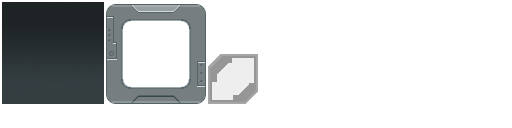
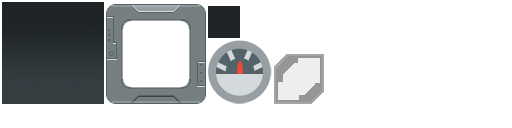
Created GameDialogs class, fixed some StageStack errors, added some UI images.

Changed region(s): [[0.4062, 0.0312, 0.6562, 0.8125]]

diff --git a/SpaceSurvival/core/src/maxfat/spacesurvival/overlap2d/GameDialogs.java b/SpaceSurvival/core/src/maxfat/spacesurvival/overlap2d/GameDialogs.java
@@ -1,0 +1,158 @@
+package maxfat.spacesurvival.overlap2d;
+
+import java.util.ArrayList;
+
+import com.badlogic.gdx.graphics.g2d.Batch;
+import com.badlogic.gdx.math.Interpolation;
+import com.badlogic.gdx.math.Vector3;
+import com.badlogic.gdx.scenes.scene2d.Action;
+import com.badlogic.gdx.scenes.scene2d.InputEvent;
+import com.badlogic.gdx.scenes.scene2d.Stage;
+import com.badlogic.gdx.scenes.scene2d.actions.Actions;
+import com.badlogic.gdx.scenes.scene2d.utils.ClickListener;
+import com.badlogic.gdx.utils.viewport.Viewport;
+import com.uwsoft.editor.renderer.SceneLoader;
+import com.uwsoft.editor.renderer.actor.CompositeItem;
+import com.uwsoft.editor.renderer.actor.IBaseItem;
+import com.uwsoft.editor.renderer.actor.LabelItem;
+
+public class GameDialogs {
+	private final StageStack stack;
+	private final Viewport viewport;
+	private final Batch batch;
+	private final SceneLoader sceneLoader;
+
+	float dialogAnimationSpeed = .5f;
+
+	public GameDialogs(StageStack stack, Viewport viewport, Batch batch) {
+		this.stack = stack;
+		this.viewport = viewport;
+		this.batch = batch;
+		this.sceneLoader = new SceneLoader();
+	}
+
+	private IBaseItem findItemByIdentifier(String id, ArrayList<IBaseItem> items) {
+		for (IBaseItem item : items) {
+			if (item.getDataVO().itemIdentifier.equals(id)) {
+				return item;
+			}
+			if (item.isComposite()) {
+				CompositeItem cmp = (CompositeItem) item;
+				IBaseItem recursedItem = findItemByIdentifier(id,
+						cmp.getItems());
+				if (recursedItem != null)
+					return recursedItem;
+			}
+		}
+		return null;
+	}
+
+	private void centerItemInStage(Stage stage, CompositeItem item) {
+		Vector3 pos = stage.getCamera().position;
+		float x = (pos.x - item.getWidth() / 2);
+		float y = (pos.y - item.getHeight() / 2);
+		item.setPosition(x, y);
+	}
+
+	public void showYesNoDialog(String message, Runnable yesRun, Runnable noRun) {
+		this.showYesNoDialog(message, "Yes", "No", yesRun, noRun);
+	}
+
+	private void addInAnimation(CompositeItem root) {
+		root.setOrigin(root.getWidth() / 2, root.getHeight() / 2);
+		root.setScale(.1f, .1f);
+		root.addAction(Actions.scaleTo(1, 1, dialogAnimationSpeed,
+				Interpolation.swingOut));
+	}
+
+	private void addOutAnimation(CompositeItem root, Action after1,
+			Action after2) {
+		root.setOrigin(root.getWidth() / 2, root.getHeight() / 2);
+		root.setScale(1, 1);
+		root.addAction(Actions.sequence(Actions.scaleTo(.1f, .1f,
+				dialogAnimationSpeed, Interpolation.swingIn), after1, after2));
+	}
+
+	public void showYesNoDialog(String message, String yes, String no,
+			final Runnable yesRun, final Runnable noRun) {
+		sceneLoader.loadScene("YesNoDialog");
+		final CompositeItem root = sceneLoader.getRoot();
+		final Stage stage = new Stage(this.viewport, this.batch);
+		SimpleButtonScript yesNoScript = new SimpleButtonScript();
+		root.addScriptTo("SimpleButton", yesNoScript);
+
+		ArrayList<IBaseItem> allItems = root.getItems();
+		CompositeItem btnYes = (CompositeItem) findItemByIdentifier("btnYes",
+				allItems);
+
+		// Must be last action executed because it removes stage from stack,
+		// Stage then can no longer be updated and can't execute further
+		// actions.
+		final Action lastAction = new Action() {
+			@Override
+			public boolean act(float delta) {
+				stack.pop();
+				stage.dispose();
+				return true;
+			}
+		};
+		btnYes.addListener(new ClickListener() {
+			public void touchUp(InputEvent event, float x, float y,
+					int pointer, int button) {
+				root.clearActions();
+				addOutAnimation(root, new RunAction(yesRun), lastAction);
+			}
+		});
+		LabelItem lblYes = btnYes.getLabelById("text");
+		lblYes.setText(yes);
+
+		CompositeItem btnNo = (CompositeItem) findItemByIdentifier("btnNo",
+				allItems);
+		btnNo.addListener(new ClickListener() {
+			public void touchUp(InputEvent event, float x, float y,
+					int pointer, int button) {
+				root.clearActions();
+				addOutAnimation(root, new RunAction(noRun), lastAction);
+			}
+		});
+		LabelItem lblNo = btnNo.getLabelById("text");
+		lblNo.setText(no);
+
+		LabelItem lblMessage = (LabelItem) findItemByIdentifier("lblMessage",
+				allItems);
+		lblMessage.setText(message);
+
+		centerItemInStage(stage, root);
+
+		this.addInAnimation(root);
+		stage.addActor(root);
+		this.stack.push(stage);
+	}
+
+	public void render(float delta) {
+		this.stack.render(delta);
+	}
+
+	public void update(int width, int height) {
+		this.stack.resize(width, height);
+	}
+
+	public void dispose() {
+		this.stack.dispose();
+	}
+
+	private class RunAction extends Action {
+		Runnable run;
+
+		public RunAction(Runnable run) {
+			this.run = run;
+		}
+
+		@Override
+		public boolean act(float delta) {
+			if (this.run != null)
+				this.run.run();
+			return true;
+		}
+	}
+}

diff --git a/SpaceSurvival/core/src/maxfat/spacesurvival/screens/GameScreen.java b/SpaceSurvival/core/src/maxfat/spacesurvival/screens/GameScreen.java
@@ -4,8 +4,7 @@ import maxfat.graph.Graph;
 import maxfat.graph.PlanetData;
 import maxfat.spacesurvival.gamesystem.PlayerComponent;
 import maxfat.spacesurvival.gamesystem.PlayerQuery;
-import maxfat.spacesurvival.overlap2d.DialogBuilder;
-import maxfat.spacesurvival.overlap2d.DialogBuilder.IYesNoListener;
+import maxfat.spacesurvival.overlap2d.GameDialogs;
 import maxfat.spacesurvival.overlap2d.StageStack;
 import maxfat.spacesurvival.screens.GameStateEngine.PlanetGameState;
 import maxfat.util.random.RandomUtil;
@@ -13,42 +12,43 @@ import maxfat.util.random.RandomUtil;
 import com.badlogic.gdx.Gdx;
 import com.badlogic.gdx.Screen;
 import com.badlogic.gdx.graphics.GL20;
+import com.badlogic.gdx.graphics.g2d.SpriteBatch;
 import com.badlogic.gdx.math.Vector2;
-import com.badlogic.gdx.scenes.scene2d.Stage;
 import com.badlogic.gdx.utils.viewport.FitViewport;
-import com.uwsoft.editor.renderer.actor.CompositeItem;
 
 public class GameScreen implements Screen {
-	private FitViewport viewport;
+	private FitViewport gameViewport;
+	private FitViewport uiViewport;
 	GameScreenInputManager inputManager;
 	private GameStateEngine gameState;
 	private RenderEngine renderEngine;
 	ViewController gameView;
 
 	PlayerQuery player;
-	DialogBuilder dialogBuilder;
-	Stage uiStage;
 	StageStack stageStack;
+	GameDialogs dialogs;
 
 	public GameScreen(Graph<PlanetData> graph) {
-		this.uiStage = new Stage(new FitViewport(GameConstants.ScreenWidth,
-				GameConstants.ScreenHeight));
-		this.viewport = new FitViewport(GameConstants.ScreenWidth,
+		this.gameViewport = new FitViewport(GameConstants.ScreenWidth,
 				GameConstants.ScreenHeight);
-		this.gameView = new ViewController(viewport);
-		this.renderEngine = new RenderEngine(this.viewport, graph);
+		this.uiViewport = new FitViewport(GameConstants.ScreenWidth,
+				GameConstants.ScreenHeight);
+		this.gameView = new ViewController(gameViewport);
+		this.renderEngine = new RenderEngine(this.gameViewport, graph);
 		PlayerComponent playerComponent = new PlayerComponent(
 				RandomUtil.getUniqueId());
 		this.gameState = new GameStateEngine(this.renderEngine.getGraph());
 		this.gameState.addPlayer(playerComponent);
 		this.player = new PlayerQuery(playerComponent, this.gameState);
 		this.inputManager = new GameScreenInputManager(this.gameState,
-				this.viewport);
+				this.gameViewport);
 		this.inputManager.listener = inputListener;
-		this.dialogBuilder = new DialogBuilder(this.uiStage);
 		this.stageStack = new StageStack();
 		this.stageStack.push(new StageStack.StageWrapper(null,
 				this.inputManager));
+
+		dialogs = new GameDialogs(this.stageStack, this.uiViewport,
+				new SpriteBatch());
 	}
 
 	GameScreenInputManager.IGameUIListener inputListener = new GameScreenInputManager.IGameUIListener() {
@@ -77,23 +77,13 @@ public class GameScreen implements Screen {
 
 		@Override
 		public void onExitRequested() {
-			CompositeItem exitDialog = dialogBuilder
-					.getExitDialog(new IYesNoListener() {
-						@Override
-						public void yesPressed(CompositeItem dialog) {
-							dialog.dispose();
-							Gdx.app.exit();
+			dialogs.showYesNoDialog("Do you want to quit?", "Yes", "No",
+					new Runnable() {
+						public void run() {
+							System.out.println("quit!");
+							// Gdx.app.exit();
 						}
-
-						@Override
-						public void noPressed(CompositeItem dialog) {
-							dialog.remove();
-							dialog.dispose();
-							stageStack.pop();
-						}
-					});
-			uiStage.addActor(exitDialog);
-			stageStack.push(uiStage);
+					}, null);
 		}
 	};
 
@@ -110,14 +100,14 @@ public class GameScreen implements Screen {
 		this.gameView.update(delta);
 		this.gameState.update(delta);
 		this.renderEngine.render(delta);
-		this.uiStage.act(delta);
-		this.uiStage.draw();
+		this.dialogs.render(delta);
 	}
 
 	@Override
 	public void resize(int width, int height) {
-		this.viewport.update(width, height);
-		this.uiStage.getViewport().update(width, height);
+		this.gameViewport.update(width, height);
+		this.gameViewport.update(width, height);
+		this.dialogs.update(width, height);
 	}
 
 	@Override

diff --git a/SpaceSurvival/core/src/maxfat/spacesurvival/overlap2d/StageStack.java b/SpaceSurvival/core/src/maxfat/spacesurvival/overlap2d/StageStack.java
@@ -8,40 +8,49 @@ import com.badlogic.gdx.scenes.scene2d.Stage;
 
 public class StageStack {
 	private final Stack<StageWrapper> stack;
-	private StageWrapper currentWrapper;
 
 	public StageStack() {
 		this.stack = new Stack<StageWrapper>();
 	}
 
 	public void render(float delta) {
-		if (this.currentWrapper.stage != null) {
-			Stage stage = this.currentWrapper.stage;
+		StageWrapper wrapper = this.stack.peek();
+		if (wrapper != null && wrapper.stage != null) {
+			Stage stage = wrapper.stage;
 			stage.act(delta);
 			stage.draw();
 		}
 	}
 
 	public void push(Stage stage) {
+		if (stage == null)
+			throw new NullPointerException("stage");
 		this.push(new StageWrapper(stage, stage));
 	}
 
-	public void push(StageWrapper inputProcessor) {
-		this.stack.add(this.currentWrapper);
-		this.currentWrapper = inputProcessor;
-		Gdx.input.setInputProcessor(this.currentWrapper.inputProcessor);
+	public void push(StageWrapper stageWrapper) {
+		if (stageWrapper == null)
+			throw new NullPointerException("stageWrapper");
+		this.stack.push(stageWrapper);
+		Gdx.input.setInputProcessor(stageWrapper.inputProcessor);
 	}
 
 	public void resize(int width, int height) {
 		for (StageWrapper s : this.stack) {
-			s.stage.getViewport().update(width, height);
+			if (s.stage != null) {
+				s.stage.getViewport().update(width, height);
+			}
 		}
 	}
 
 	public void pop() {
-		StageWrapper p = this.stack.pop();
-		Gdx.input.setInputProcessor(p.inputProcessor);
-		this.currentWrapper = p;
+		this.stack.pop();
+		StageWrapper next = this.stack.peek();
+		if (next != null) {
+			Gdx.input.setInputProcessor(next.inputProcessor);
+		} else {
+			Gdx.input.setInputProcessor(null);
+		}
 	}
 
 	public static class StageWrapper {
@@ -54,5 +63,14 @@ public class StageStack {
 			this.stage = stage;
 			this.inputProcessor = processor;
 		}
+	}
+
+	public void dispose() {
+		for (StageWrapper wrapper : this.stack) {
+			if (wrapper.stage != null) {
+				wrapper.stage.dispose();
+			}
+		}
+		this.stack.clear();
 	}
 }
